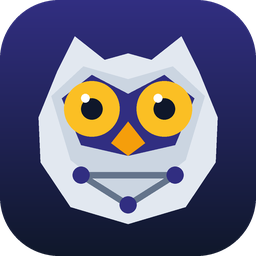
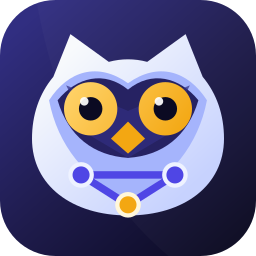
Refresh Strixonomy branding assets and improve docs mobile layout.
Update owl logo and extension icons with a clearer graph motif, and tighten Read the Docs hero and reference styles for small screens.

diff --git a/docs/stylesheets/extra.css b/docs/stylesheets/extra.css
@@ -709,7 +709,6 @@ input,
   box-shadow: 0 28px 70px -30px rgba(0, 0, 0, 0.85);
   -webkit-backdrop-filter: blur(12px);
   backdrop-filter: blur(12px);
-  transform: rotate(1deg);
 }
 
 .oc-console-bar {
@@ -906,6 +905,28 @@ input,
   background: rgba(124, 58, 237, 0.07);
 }
 
+/* Keep reference-heavy pages usable on narrow screens. */
+.md-typeset img,
+.md-typeset video {
+  max-width: 100%;
+  height: auto;
+}
+
+.md-typeset .highlight,
+.md-typeset pre,
+.md-typeset .md-typeset__table {
+  max-width: 100%;
+}
+
+.md-typeset .md-typeset__table {
+  overflow-x: auto;
+  -webkit-overflow-scrolling: touch;
+}
+
+.md-typeset a {
+  overflow-wrap: anywhere;
+}
+
 @media (max-width: 800px) {
   .oc-hero-grid {
     grid-template-columns: 1fr;
@@ -914,7 +935,6 @@ input,
 
   .oc-hero-console {
     max-width: 30rem;
-    transform: none;
   }
 
   .oc-proof-strip {
@@ -947,18 +967,29 @@ input,
 
   .oc-hero .oc-hero-actions .md-button {
     width: 100%;
+    min-height: 2.75rem;
+  }
+
+  /* The console is a decorative desktop preview; removing it keeps the
+     primary action and first proof points above the fold on phones. */
+  .oc-hero-console {
+    display: none;
   }
 
   .oc-proof-strip {
-    grid-template-columns: 1fr;
+    grid-template-columns: repeat(2, minmax(0, 1fr));
   }
 
   .oc-proof-strip > div {
-    border-right: 0;
+    border-right: 1px solid var(--sx-line);
     border-bottom: 1px solid var(--sx-line);
   }
 
-  .oc-proof-strip > div:last-child {
+  .oc-proof-strip > div:nth-child(2n) {
+    border-right: 0;
+  }
+
+  .oc-proof-strip > div:nth-last-child(-n + 2) {
     border-bottom: 0;
   }
 }
